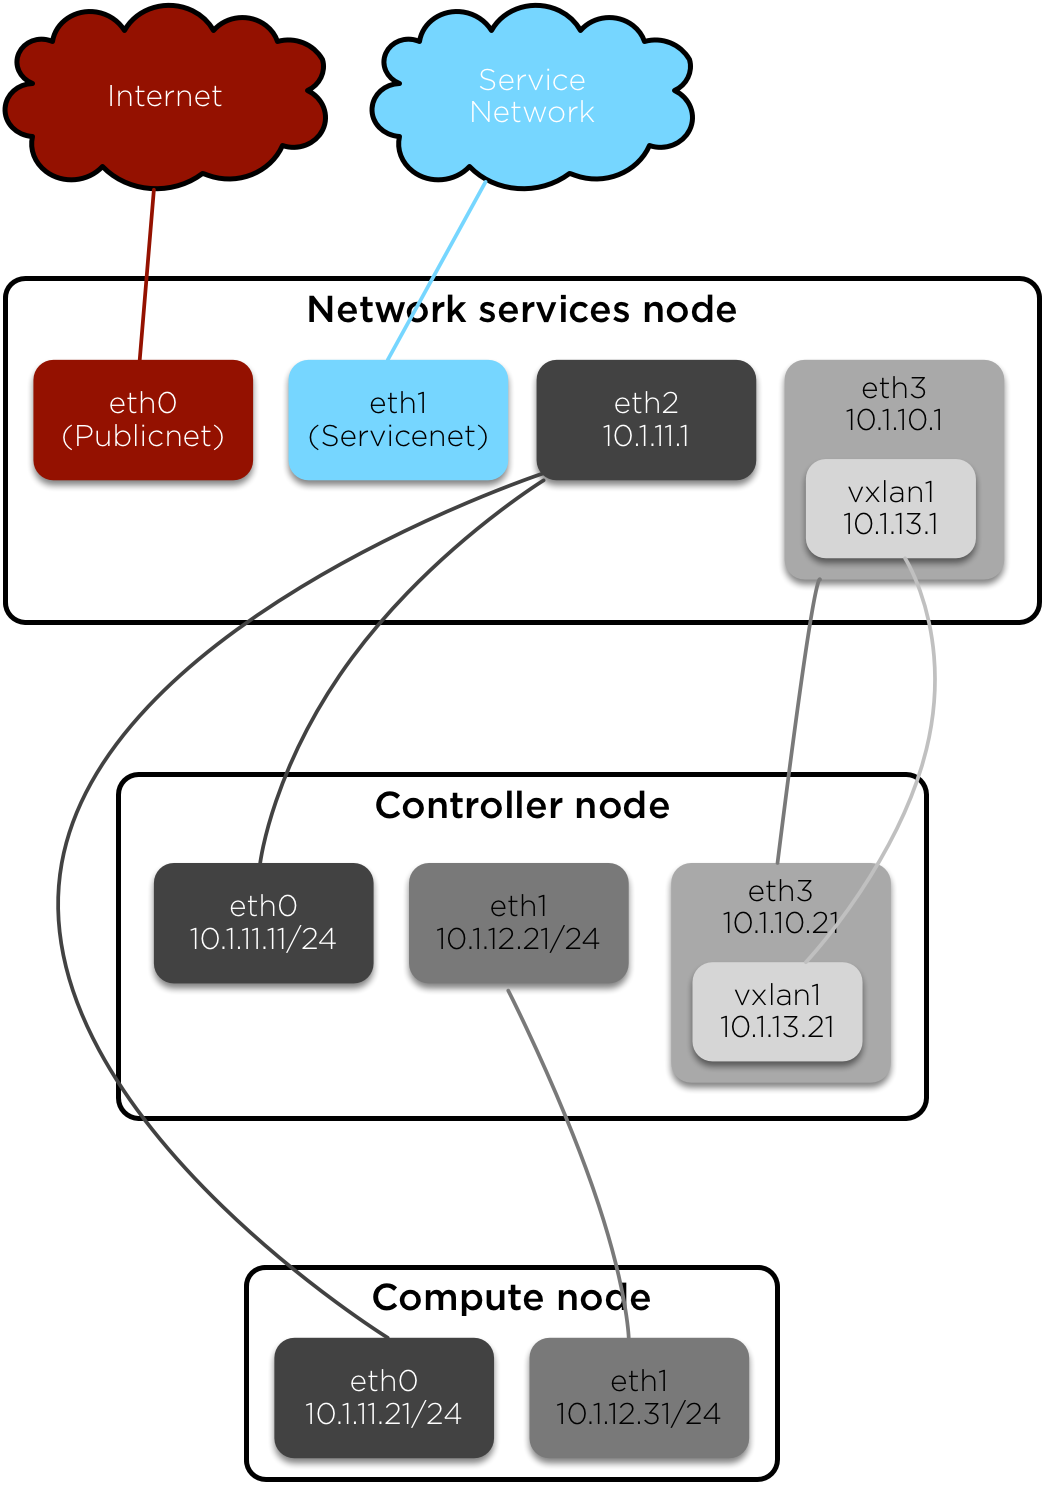
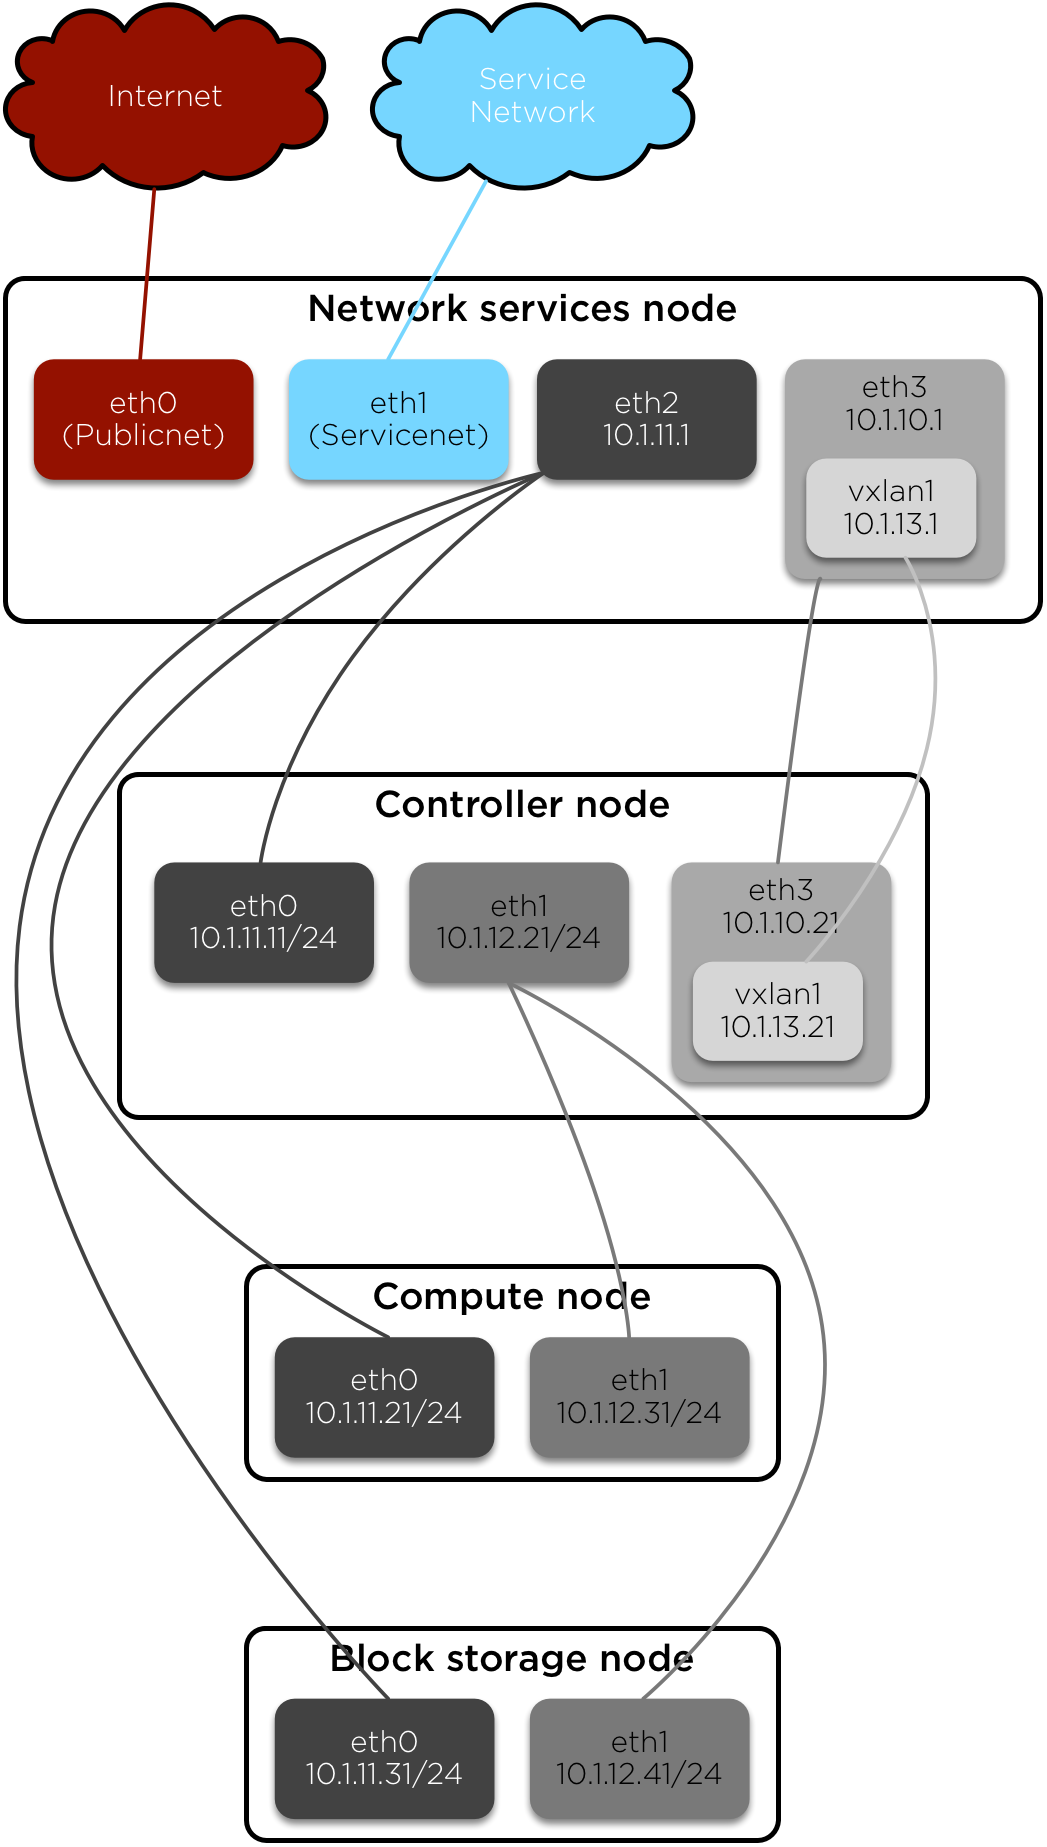
Update Ubuntu Cloud Server instructions (#208)
* Update Ubuntu Cloud Server instructions

1. Add instructions to install a Block Storage node and volume
2. Updated architecture diagram.

* fix whitespace

* Fix more whitespace

diff --git a/doc/rpc/HowTo-OpenStack-On-RAX-Cloud-Ubuntu.rst b/doc/rpc/HowTo-OpenStack-On-RAX-Cloud-Ubuntu.rst
@@ -261,10 +261,10 @@ OpenStack controller node (controller)
       The node cannot access the internet without additional
       configuration.
 
-#.  In the cloud control panel, add the *net-osint1* network to the
+#.  In the Cloud Control Panel, add the *net-osint1* network to the
     node.
 
-#.  In the cloud control panel, add the *net-osext1* network to the
+#.  In the Cloud Control Panel, add the *net-osext1* network to the
     node.
 
 #.  Configure network interfaces.
@@ -311,6 +311,9 @@ OpenStack controller node (controller)
        # compute
        10.1.11.21 compute
 
+       # block
+       10.1.11.31 block
+
        .. note::
 
          Comment out or remove any existing lines containing
@@ -339,8 +342,12 @@ OpenStack controller node (controller)
 
 #. Reboot the node.
 
+   .. code-block:: console
+
+      # reboot
+
 OpenStack compute node (compute)
-------------------------------------
+--------------------------------
 
 #. Create a cloud server, removing all networks except the *net-osmgmt1*
    network:
@@ -388,13 +395,16 @@ OpenStack compute node (compute)
 
 #. Edit the :file:`/etc/hosts` file.
 
-   .. code-block:: text
+   .. code-block:: ini
 
       # hst-os1ctl1
       10.1.11.11 controller
 
       # compute
       10.1.11.21 compute
+
+      # block
+      10.1.11.31 block
 
    .. note::
 
@@ -424,11 +434,125 @@ OpenStack compute node (compute)
 
 #. Reboot the node.
 
+   .. code-block:: console
+
+      # reboot
+
+OpenStack block storage node (block)
+~~~~~~~~~~~~~~~~~~~~~~~~~~~~~~~~~~~~
+
+#. Create a cloud server, removing all networks except the
+   **16.04 (Xenial Xerus) PVHVM** network:
+
+   - OS: CentOS 7 (PVHVM)
+   - 4 GB General Purpose v1
+   - Network: net-osmgmt1
+
+#. In the Cloud Control Panel, add the **net-osint1** network to the
+   node.
+
+#. Access the node from the network services node using the IP address
+   assigned by Rackspace on the **net-osmgmt1** network:
+
+   .. code-block:: console
+
+      # ssh-copy-id -i .ssh/id_rsa.pub root@<block_IP_ADDRESS>
+      # ssh root@<block_IP_ADDRESS>
+
+   .. note::
+
+      The node cannot access the internet without additional configuration.
+
+#. Edit the :file:`/etc/network/interfaces` file:
+
+   .. code-block:: ini
+
+      # Label net-osmgmt1
+      auto eth0
+      iface eth0 inet static
+          address 10.1.11.31
+          netmask 255.255.255.0
+          gateway 10.1.11.1
+          dns-nameserver 72.3.128.241 72.3.128.240
+
+      # Label net-osint1
+      auto eth1
+      iface eth1 inet static
+          address 10.1.12.41
+          netmask 255.255.255.0
+
+#. Edit the */etc/hosts* file:
+
+   .. code-block:: ini
+
+      # controller
+      10.1.11.11 controller
+
+      # compute
+      10.1.11.21 compute
+
+      #block
+      10.1.11.31 block
+
+   .. note::
+
+      Comment out or remove any existing lines containing
+      *block*.
+
+#. Reboot the node.
+
+#. Access the node from the network services node using the new IP
+   address on the *net-osmgmt1* network.
+
+   .. code-block:: console
+
+      ssh root@10.1.11.31
+
+#. Test network connectivity to the internet. For example:
+
+   .. code-block:: console
+
+      ping -c 4 openstack.org
+
+#. Update the node.
+
+   .. code-block:: console
+
+      apt-get update && apt-get dist-upgrade
+
+#. If performing pre-release testing, install the repository for the relevant
+   release candidate. For example:
+
+   .. code-block:: console
+
+      # apt-get install software-properties-common
+      # add-apt-repository cloud-archive:newton-proposed
+
+#. Reboot the node:
+
+   .. code-block:: console
+
+      # reboot
+
+Create block storage volume (block1)
+------------------------------------
+
+#. In the Rackspace Cloud Control Panel, select
+   :guilabel:`Block Storage Volumes` in the :guilabel:`Storage` tab, and
+   create the following volume named **block1**:
+
+   - Standard (SATA) 75GB
+
+#. Attach the volume to the **block** server.
+
+#. After the device is attached, note the device name. For example,
+   `/dev/xvdb`. Use this value when setting up block storage for OpenStack.
+
 Install and configure OpenStack services
 ~~~~~~~~~~~~~~~~~~~~~~~~~~~~~~~~~~~~~~~~
 
-Use the `installation
-guides <http://docs.openstack.org/project-install-guide/draft/>`_ with
+Use the `OpenStack Installation
+Guides <http://docs.openstack.org/project-install-guide/draft/>`_ with
 the following changes:
 
 - Configuring the basic environment on all nodes:
@@ -451,9 +575,9 @@ the following changes:
 
     .. code-block:: console
 
-       neutron subnet-create ext-net --name ext-subnet \
+       neutron subnet-create --name provider \
        --allocation-pool start=10.1.13.101,end=10.1.13.200 \
-       --disable-dhcp --gateway 10.1.13.1 10.1.13.0/24
+       --disable-dhcp --gateway 10.1.13.1 provider 10.1.13.0/24
 
   .. note::
 
